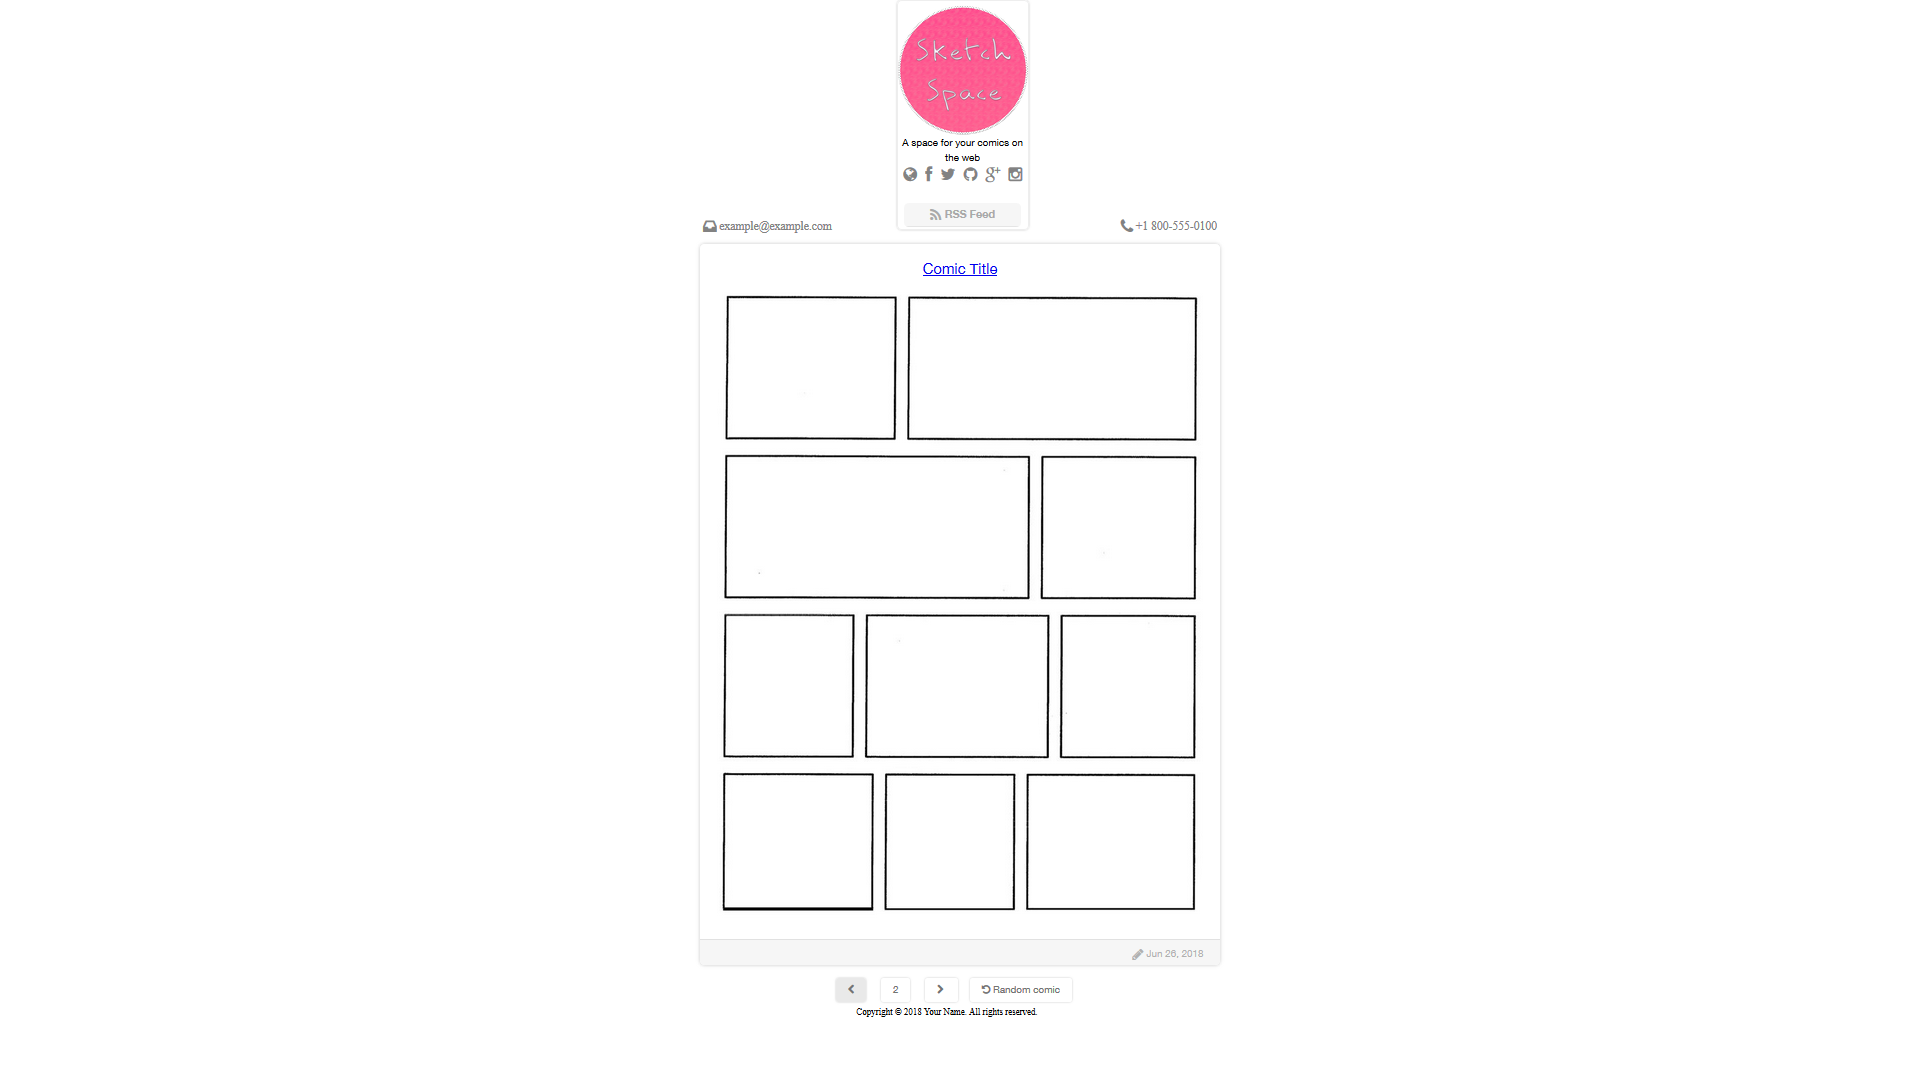
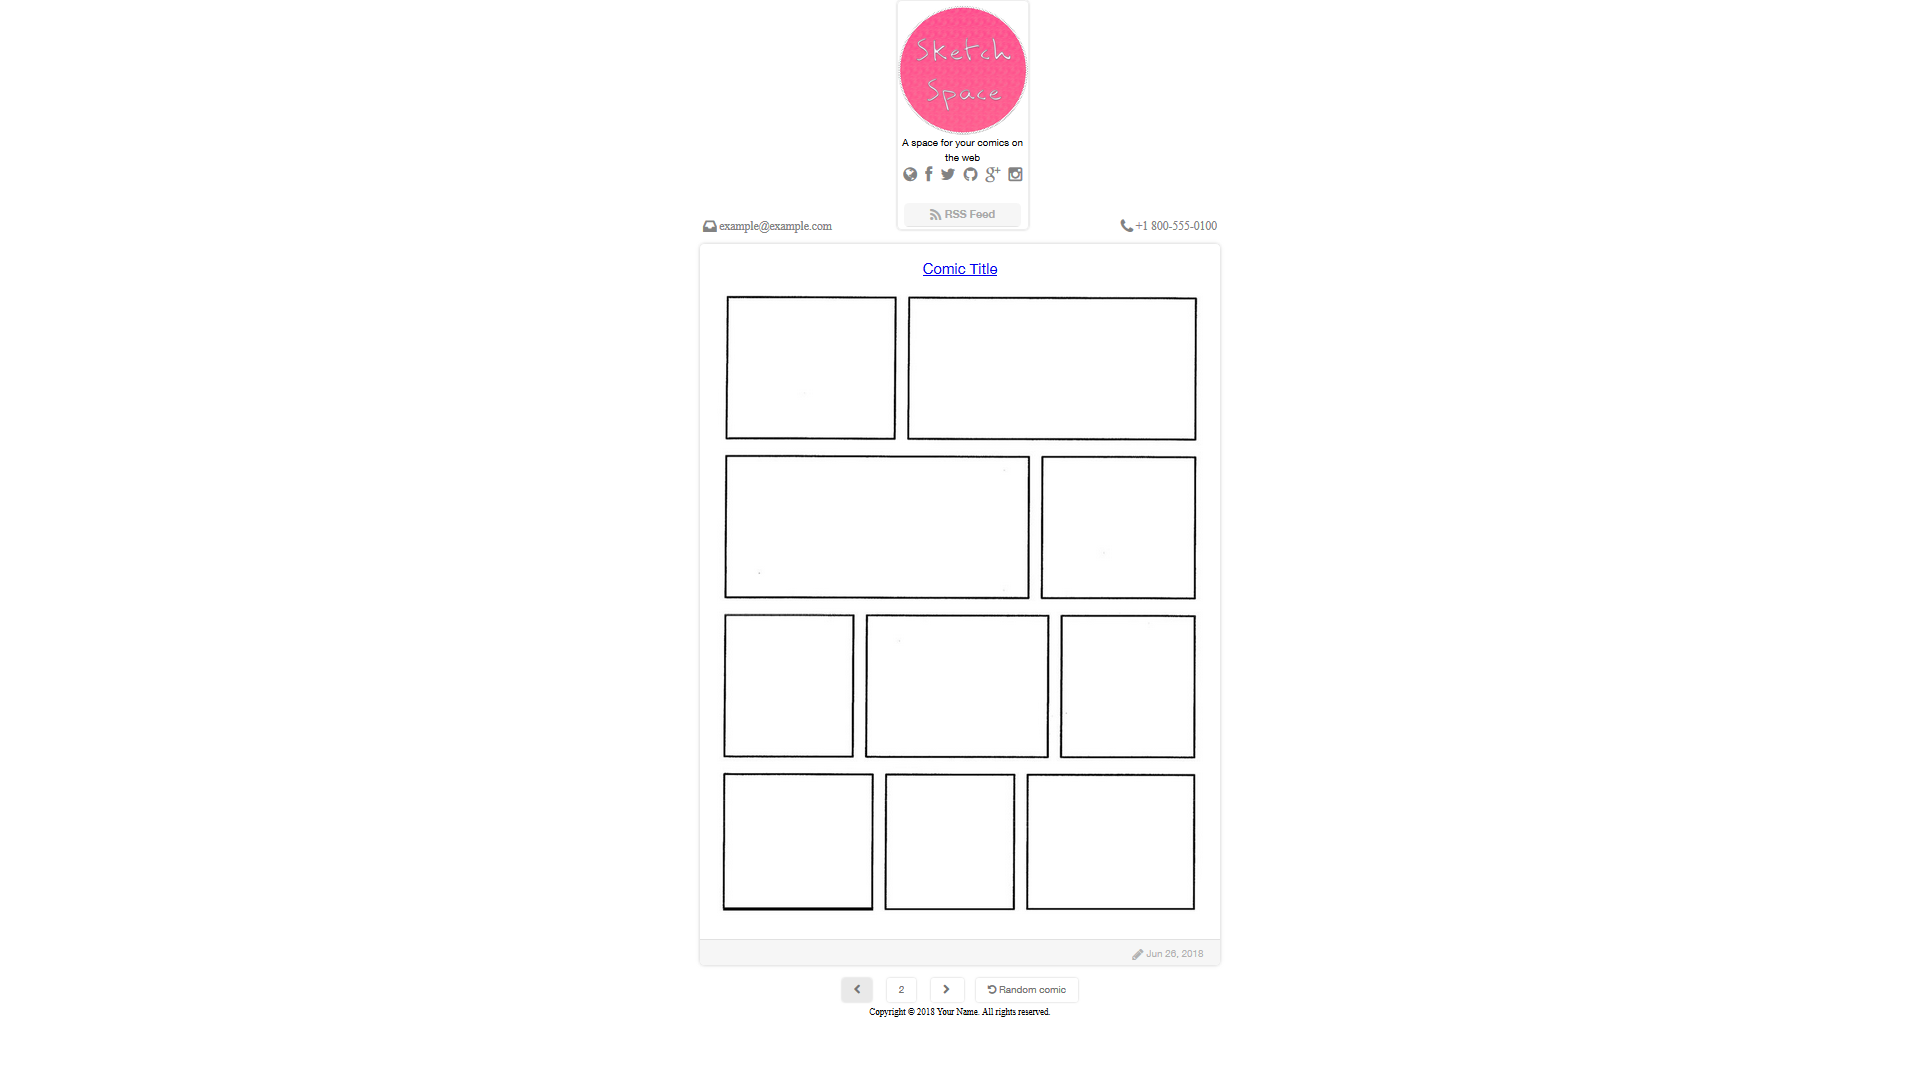
Re-align footer & nav. buttons

diff --git a/_sass/_base.scss b/_sass/_base.scss
@@ -278,11 +278,12 @@ pre {
 }
 
 #pagination{
-    padding-top: 20px;
-    padding-bottom: 8px;
-    margin-left: 25%;
-    margin-right: 0;
-    width: 50%;
+ padding-top:20px;
+ padding-bottom:8px;
+ margin:0 auto;
+ display:flex;
+ justify-content:center;
+ align-items:center
 }
 
 .pagenavi a{

diff --git a/_sass/_fixer.scss b/_sass/_fixer.scss
@@ -30,8 +30,10 @@ meta {
  font-variant:normal;
  font-weight:400;
  line-height:16px;
- margin-left:-5%;
- text-align:center
+ text-align:center;
+ display:flex;
+ justify-content:center;
+ align-items:center;
 }
 .bar-box {
  padding-right:0;
